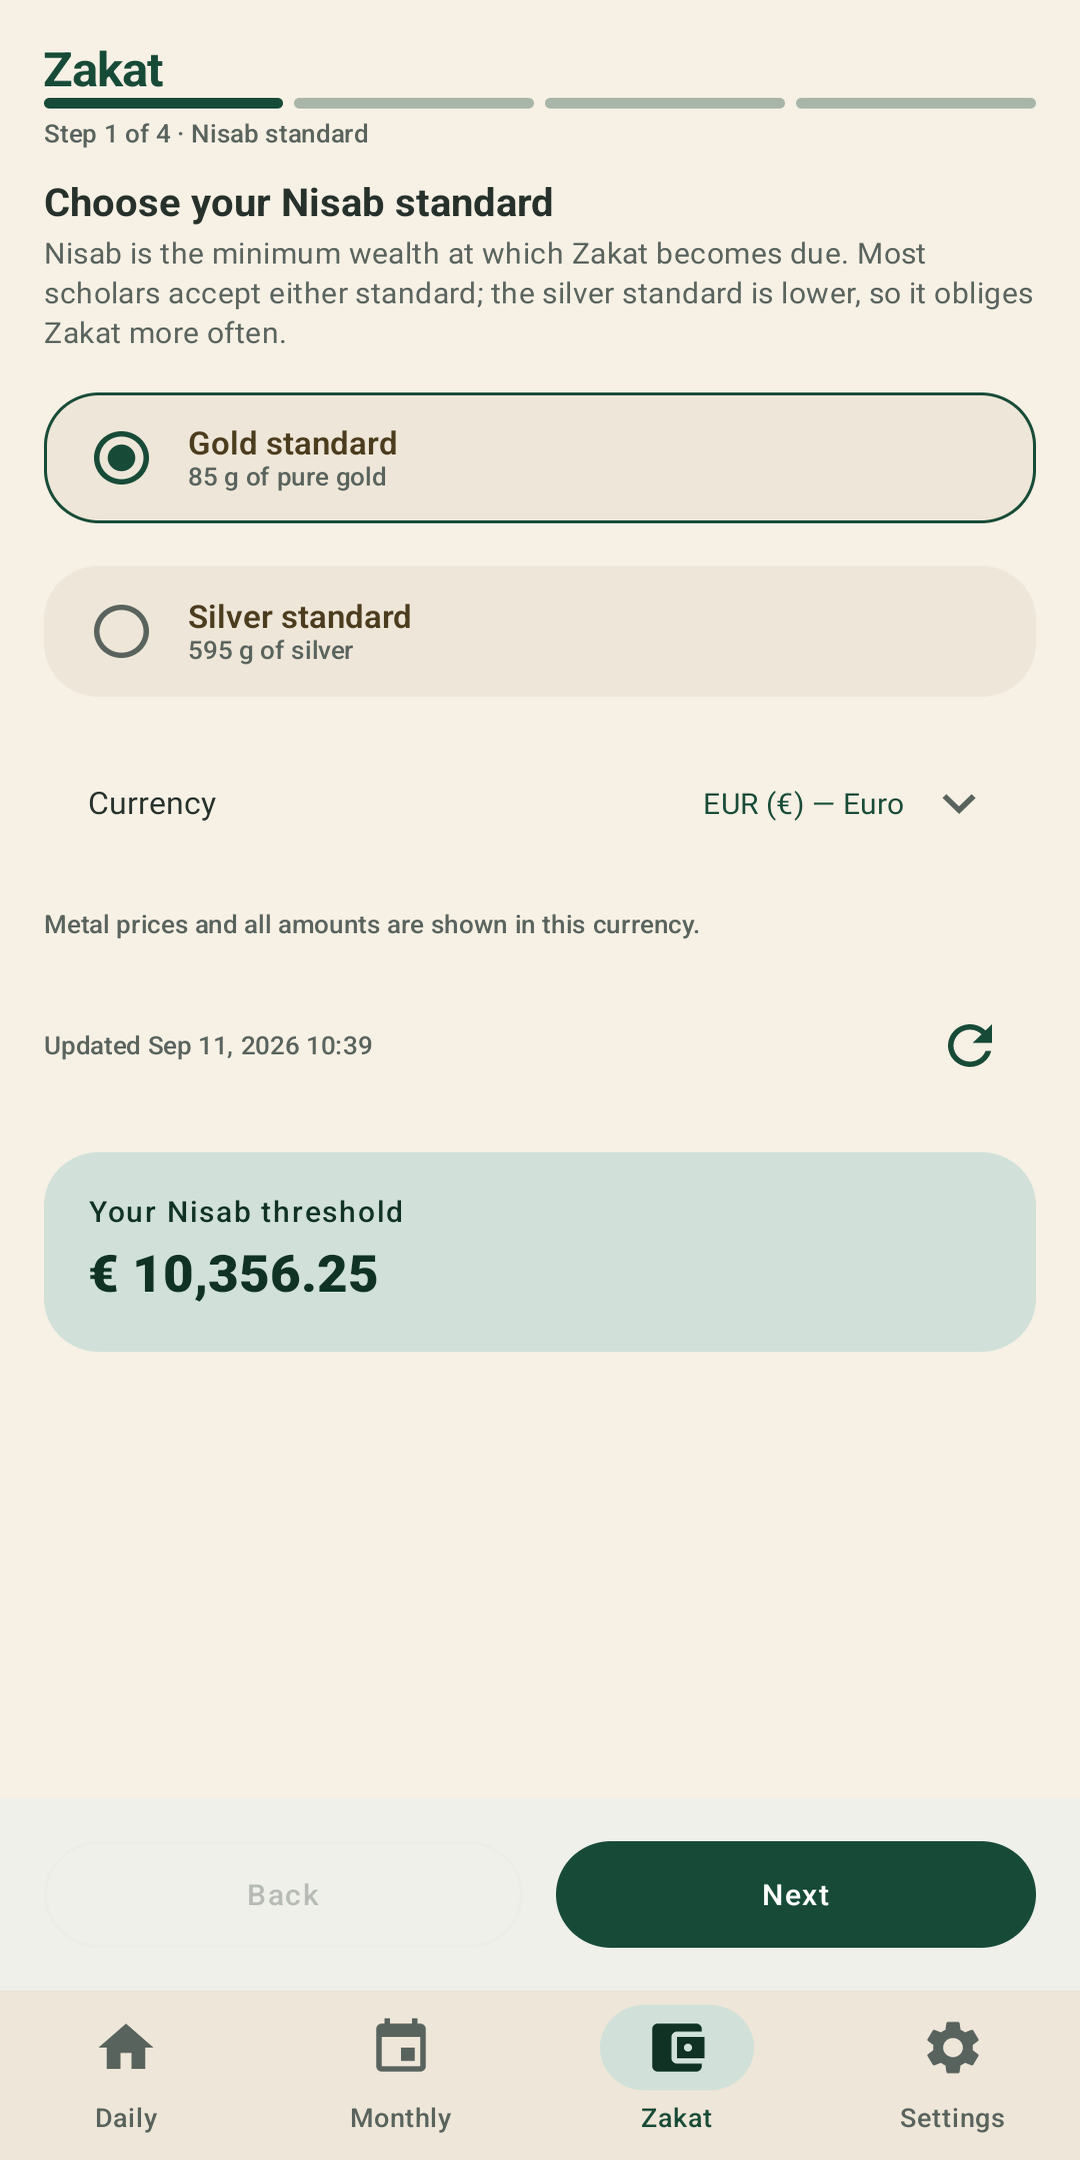
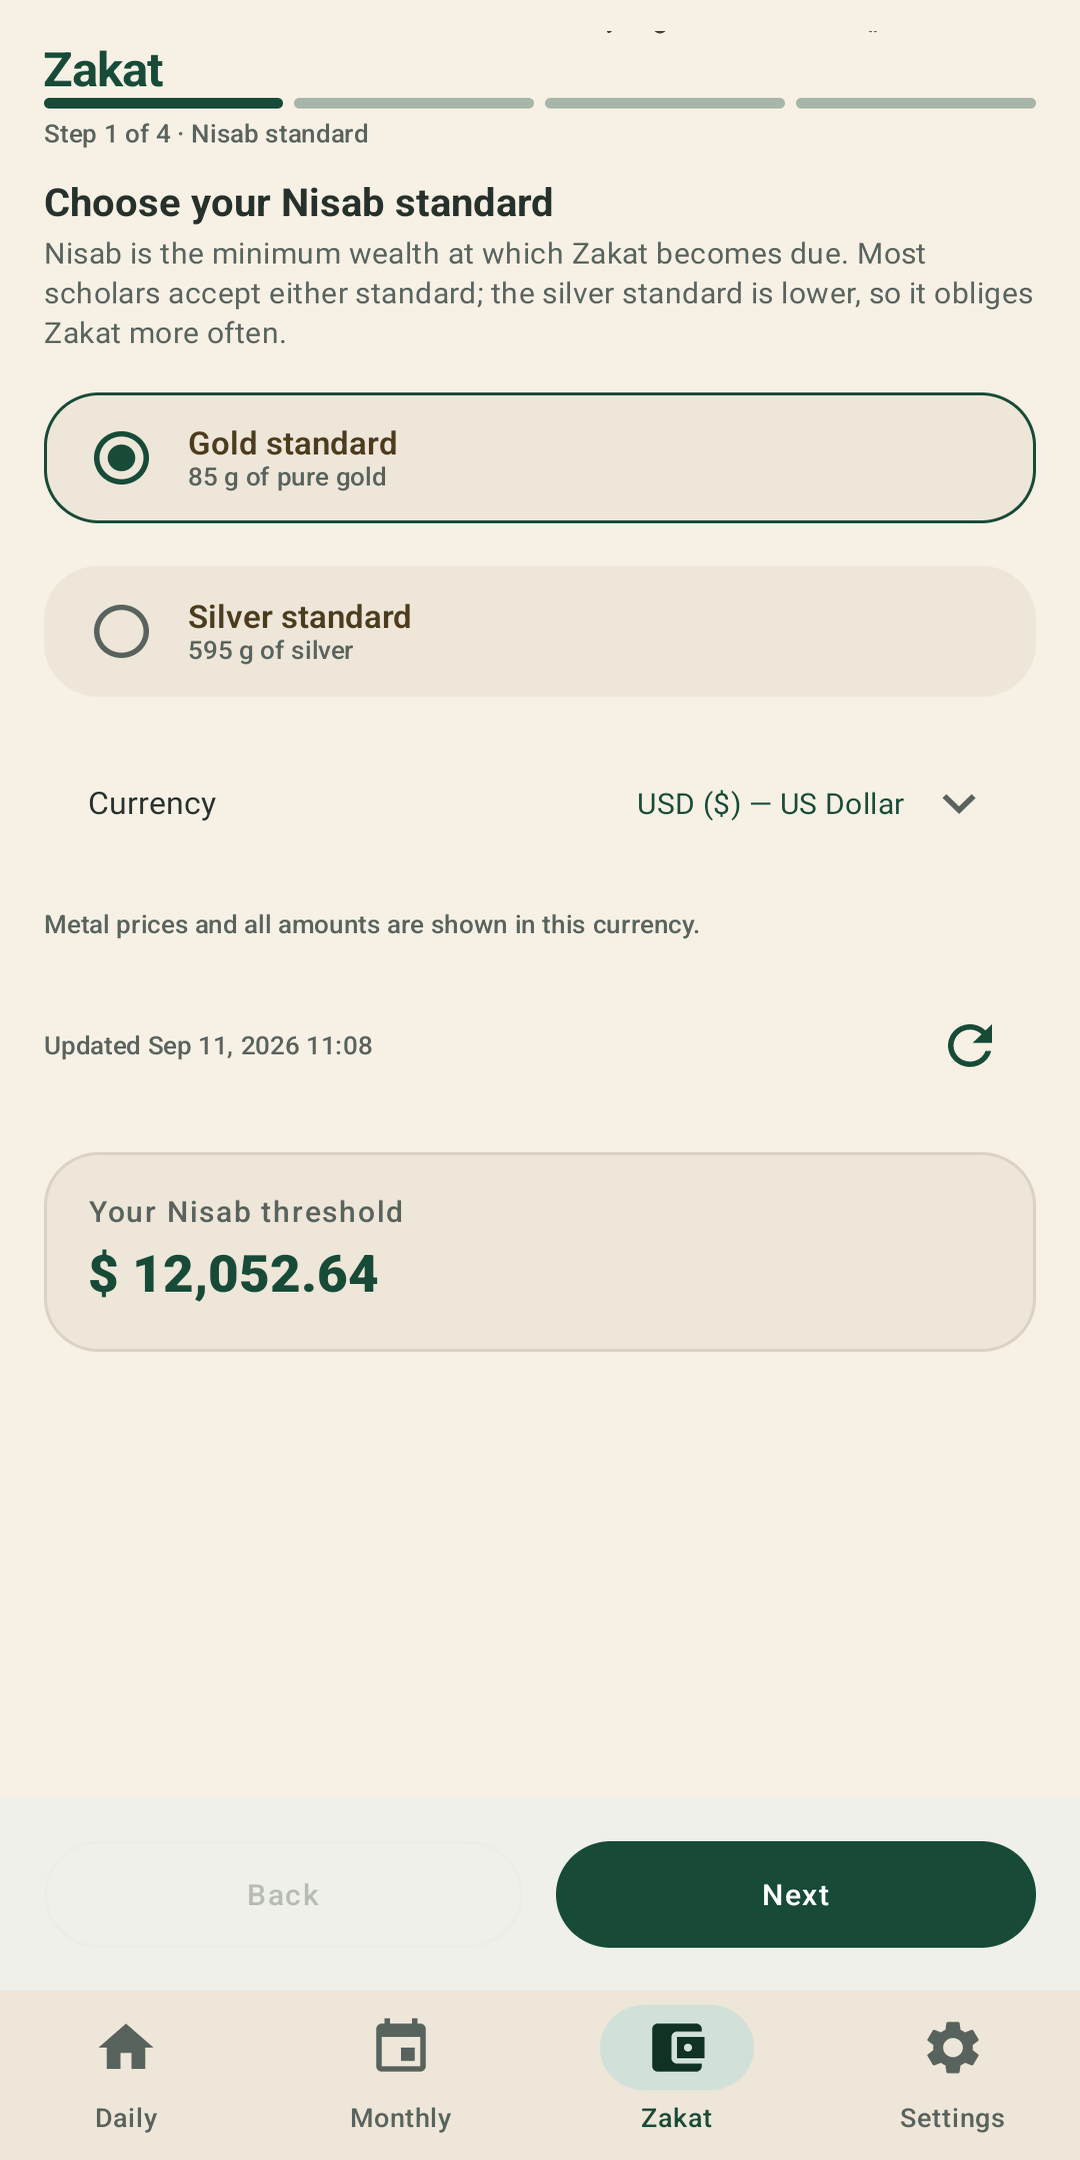
fix(ui): harmonize Zakat card colors with surfaceVariant theme and refresh screenshots

Changed region(s): [[0.0306, 0.5273, 0.9778, 0.6514]]

diff --git a/app/src/main/java/com/sulfuro/salati/ui/zakat/ZakatScreen.kt b/app/src/main/java/com/sulfuro/salati/ui/zakat/ZakatScreen.kt
@@ -648,16 +648,8 @@ private fun EligibilityCard(
     Surface(
         modifier = Modifier.fillMaxWidth(),
         shape = SalatiShapeTokens.Card,
-        color = if (isEligible) {
-            MaterialTheme.colorScheme.primaryContainer
-        } else {
-            MaterialTheme.colorScheme.surfaceVariant
-        },
-        contentColor = if (isEligible) {
-            MaterialTheme.colorScheme.onPrimaryContainer
-        } else {
-            MaterialTheme.colorScheme.onSurfaceVariant
-        }
+        color = MaterialTheme.colorScheme.surfaceVariant,
+        border = BorderStroke(1.dp, MaterialTheme.colorScheme.outlineVariant)
     ) {
         Column(
             modifier = Modifier.padding(SalatiSpacing.md),
@@ -672,13 +664,15 @@ private fun EligibilityCard(
                 Text(
                     text = zakatDueText,
                     style = MaterialTheme.typography.displaySmall,
-                    fontWeight = FontWeight.Black
+                    fontWeight = FontWeight.Black,
+                    color = MaterialTheme.colorScheme.primary
                 )
             } else {
                 Text(
                     text = belowNisabText,
                     style = MaterialTheme.typography.bodyLarge,
-                    fontWeight = FontWeight.Medium
+                    fontWeight = FontWeight.Medium,
+                    color = MaterialTheme.colorScheme.onSurfaceVariant
                 )
             }
         }

diff --git a/app/src/main/java/com/sulfuro/salati/ui/zakat/ZakatSteps.kt b/app/src/main/java/com/sulfuro/salati/ui/zakat/ZakatSteps.kt
@@ -167,8 +167,8 @@ internal fun ZakatStandardStep(
         Surface(
             modifier = Modifier.fillMaxWidth(),
             shape = SalatiShapeTokens.Card,
-            color = MaterialTheme.colorScheme.primaryContainer,
-            contentColor = MaterialTheme.colorScheme.onPrimaryContainer
+            color = MaterialTheme.colorScheme.surfaceVariant,
+            border = BorderStroke(1.dp, MaterialTheme.colorScheme.outlineVariant)
         ) {
             Column(
                 modifier = Modifier.padding(SalatiSpacing.md),
@@ -176,12 +176,14 @@ internal fun ZakatStandardStep(
             ) {
                 Text(
                     text = stringResource(R.string.zakat_standard_threshold),
-                    style = MaterialTheme.typography.labelLarge
+                    style = MaterialTheme.typography.labelLarge,
+                    color = MaterialTheme.colorScheme.onSurfaceVariant
                 )
                 Text(
                     text = nisabThresholdText,
                     style = MaterialTheme.typography.headlineSmall,
-                    fontWeight = FontWeight.Black
+                    fontWeight = FontWeight.Black,
+                    color = MaterialTheme.colorScheme.primary
                 )
             }
         }
